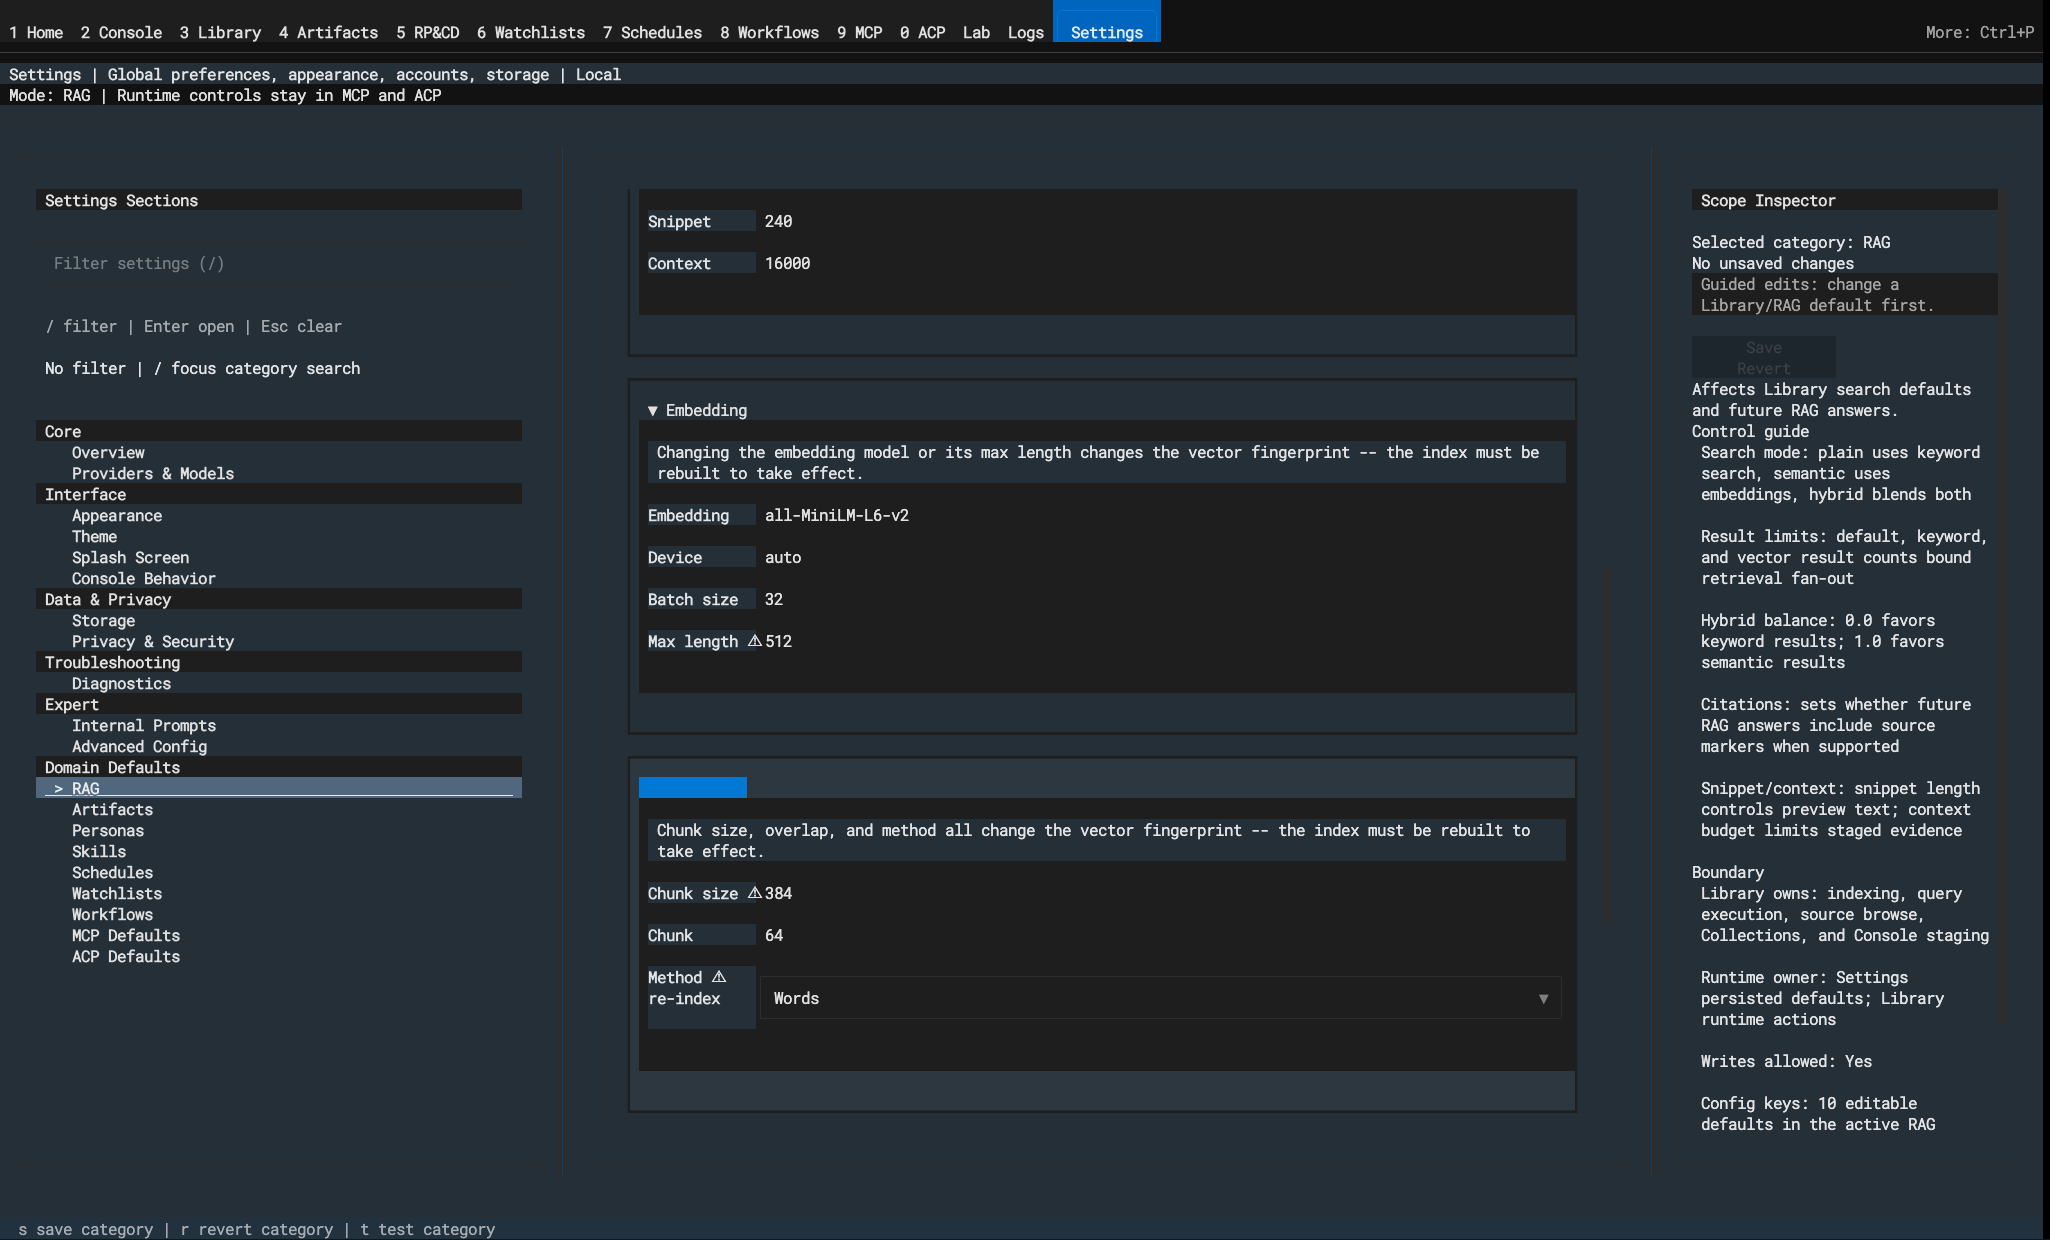
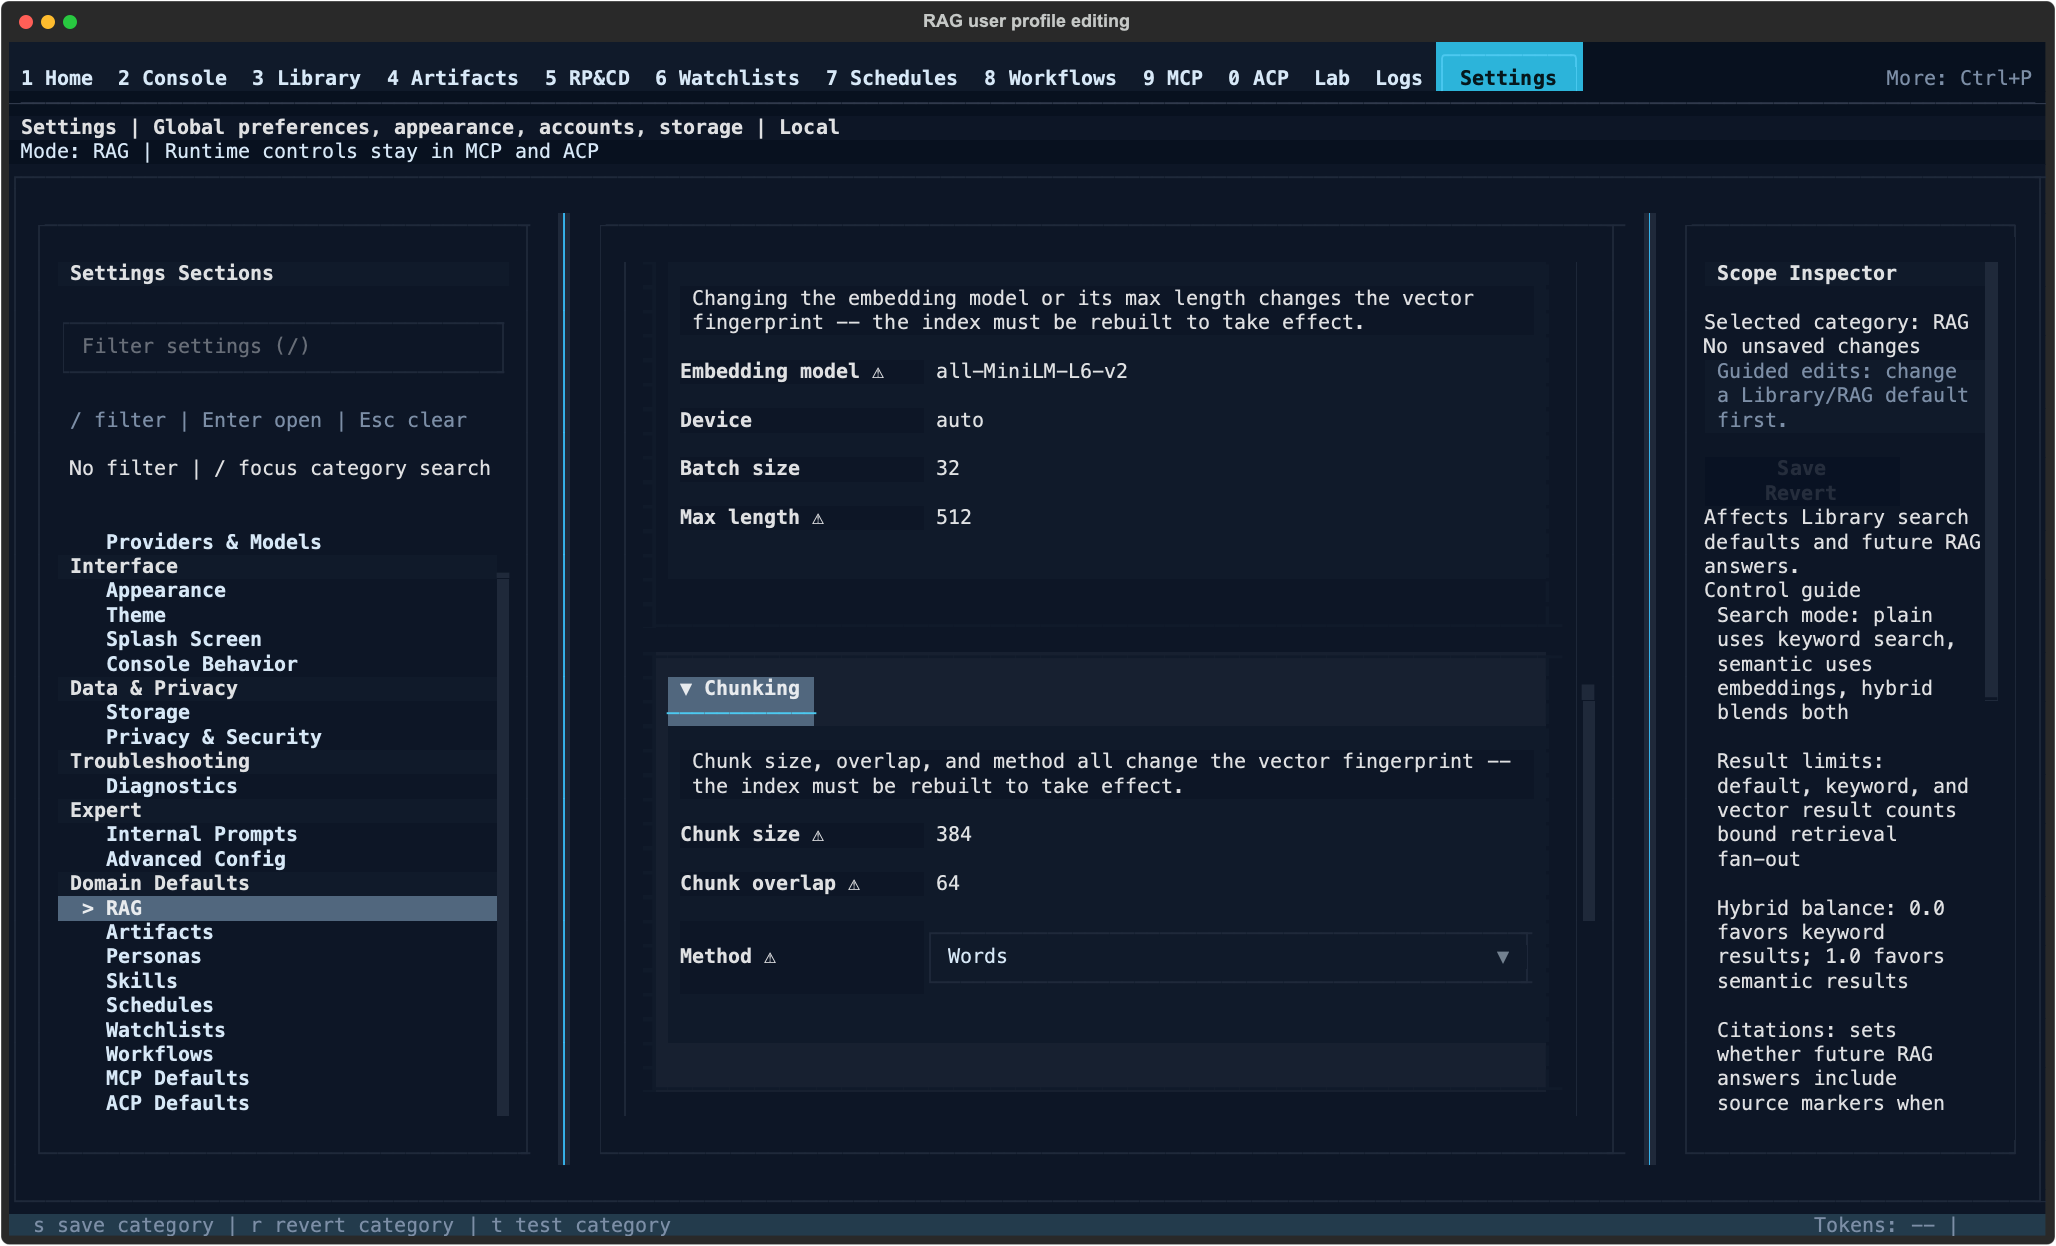
fix(settings): visible focused Collapsible titles + unambiguous RAG field labels; refresh SP3 captures
Root cause: _widgets.tcss styled a dead '.collapsible--header' class (Textual
8.2.7's title is the CollapsibleTitle widget), so focused titles fell through
to an invisible default. RAG card label column widened to 20 (longest labels
in Settings; generic 12 clipped 'Reranker model'/'Reranker top-k' to identical
'Reranker'). Bundle regenerated via build_css.

diff --git a/Docs/superpowers/qa/rag-settings-sp3-2026-07/capture_rag_settings.py b/Docs/superpowers/qa/rag-settings-sp3-2026-07/capture_rag_settings.py
@@ -1,0 +1,233 @@
+"""Capture Settings > Domain Defaults > RAG QA screenshots with the REAL app
+stylesheet + theme (task-5 visual-defect fix pass, SP3).
+
+Mirrors ``Docs/superpowers/qa/personas-workbench/capture_personas_workbench.py``:
+a bare Textual ``App`` whose ``CSS_PATH`` is the real generated bundle
+(``tldw_chatbook/css/tldw_cli_modular.tcss``), the real ``agentic_terminal``
+theme registered/activated, and the real ``SettingsScreen`` pushed onto it --
+so the SVG/PNG exports show production styling, not a bare-harness fallback
+(``DestinationHarness`` in ``Tests/UI/test_destination_shells.py`` does NOT
+load the app stylesheet -- see the ``tldw-chatbook-dev-environment`` memory).
+
+RAG profile data is wired the same way as
+``Tests.UI.test_settings_configuration_hub._wire_rag_profile_adapter``: an
+isolated ``ConfigProfileManager`` over a tmp dir, with the module-level
+``_manager``/``_active_profile_id`` hooks in ``settings_rag_profile_adapter``
+patched directly (no pytest ``monkeypatch`` fixture available outside a
+test run, so this patches by hand -- each capture "session" below gets its
+own explicit wiring call).
+
+Run from the repo root with the cairo dylib on the search path (macOS
+Homebrew build; see ``brew --prefix cairo``):
+
+    DYLD_FALLBACK_LIBRARY_PATH=/opt/homebrew/lib \\
+        .venv/bin/python3 Docs/superpowers/qa/rag-settings-sp3-2026-07/capture_rag_settings.py
+
+Outputs SVGs directly into this directory; convert to PNG with
+``svg_to_png.py`` in the same directory (cairosvg).
+"""
+
+from __future__ import annotations
+
+import asyncio
+import os
+import sys
+import tempfile
+from pathlib import Path
+
+REPO_ROOT = Path(__file__).resolve().parents[4]
+sys.path.insert(0, str(REPO_ROOT))
+os.chdir(REPO_ROOT)
+
+OUT = Path(__file__).resolve().parent
+
+# Empirically calibrated against the original captures (2050x1240): Rich's
+# SVG export viewBox is linear in terminal (cols, rows) --
+# width = 18 + 12.2*cols, height = 50 + 24.4*rows -- so (167, 49) lands
+# within a few px of the original viewport without distorting aspect ratio.
+TERMINAL_SIZE = (167, 49)
+
+
+def _wire_profiles(tmp_path: Path, *, active_id: str | None = None):
+    """Point the Settings RAG adapter at an isolated profile store.
+
+    Returns (manager, profile, state) where `profile` is a writable clone of
+    the `hybrid_basic` builtin ("QA Demo Profile"). Mirrors
+    ``Tests.UI.test_settings_configuration_hub._wire_rag_profile_adapter``
+    without the pytest ``monkeypatch`` fixture (this is a standalone script,
+    not a test run) -- patches module attributes directly.
+    """
+    from tldw_chatbook.RAG_Search.config_profiles import ConfigProfileManager
+    import tldw_chatbook.UI.Screens.settings_rag_profile_adapter as rag_adapter_module
+
+    mgr = ConfigProfileManager(profiles_dir=tmp_path / "profiles")
+    profile = mgr.clone_profile("hybrid_basic", "QA Demo Profile")
+    mgr.save_profile(profile)
+    state = {"active": active_id or profile.id}
+    rag_adapter_module._manager = lambda: mgr
+    rag_adapter_module._active_profile_id = lambda: state["active"]
+    return mgr, profile, state
+
+
+def _build_app_instance():
+    """Real (unmounted) TldwCli instance -- reuses the established test
+    helper so SettingsScreen's ``self.app_instance`` references resolve the
+    same way they do under pytest."""
+    from Tests.UI.test_screen_navigation import _build_test_app
+
+    return _build_test_app()
+
+
+async def _settle(pilot) -> None:
+    await pilot.app.workers.wait_for_complete()
+    await pilot.pause()
+
+
+async def _open_rag_category(pilot) -> None:
+    await _settle(pilot)
+    await pilot.click("#settings-category-library-rag")
+    await pilot.pause()
+    await _settle(pilot)
+
+
+def _make_qa_app_class(theme):
+    from textual.app import App
+    from tldw_chatbook.UI.Screens.settings_screen import SettingsScreen
+
+    class QAApp(App):
+        # The real generated bundle: gives the QA captures production styling.
+        CSS_PATH = str(REPO_ROOT / "tldw_chatbook" / "css" / "tldw_cli_modular.tcss")
+
+        def __init__(self, app_instance):
+            super().__init__()
+            self.app_instance = app_instance
+
+        def on_mount(self) -> None:
+            self.register_theme(theme)
+            self.theme = theme.name
+            self.push_screen(SettingsScreen(self.app_instance))
+
+    return QAApp
+
+
+async def main() -> None:
+    from textual.widgets import Button, Collapsible, Select
+    from textual.widgets._collapsible import CollapsibleTitle
+
+    from tldw_chatbook.css.Themes.themes import agentic_terminal_theme
+
+    tmp_dir = Path(tempfile.mkdtemp(prefix="rag-settings-qa-"))
+    QAApp = _make_qa_app_class(agentic_terminal_theme)
+
+    async def focus_collapsible_title(pilot, screen, collapsible_id: str) -> None:
+        """Expand a Collapsible group and move focus onto its title bar --
+        reproduces the original defect scenario (a focused Collapsible
+        title) so the fix is visible in the capture.
+
+        ``Widget.focus()`` auto-scrolls the real scrollable ancestor (the
+        "Preference Detail" pane -- the card itself is an auto-height
+        Vertical with no scroll of its own) via an ANIMATED
+        ``scroll_visible()``. A single idle-wait ``pilot.pause()`` doesn't
+        reliably outlast a multi-frame scroll animation for a target several
+        rows below the fold (verified: worked for a 1-hop scroll, silently
+        left an earlier target focused/on-screen for a longer one) -- use a
+        wall-clock delay long enough for the animation to finish.
+        """
+        collapsible = screen.query_one(f"#{collapsible_id}", Collapsible)
+        collapsible.collapsed = False
+        collapsible.query_one(CollapsibleTitle).focus()
+        await pilot.pause(0.6)
+
+    # --- Captures 1 + 2: builtin "hybrid_basic" active (read-only). ---
+    # Each capture "session" gets its own profiles_dir -- reusing one
+    # directory across ConfigProfileManager instances let a later
+    # clone_profile("hybrid_basic", "QA Demo Profile") collide with an
+    # earlier session's file of the same name, which was silently
+    # perturbing later widget state (observed: capture 4's "Set active"
+    # focus not landing where the standalone repro said it would).
+    _wire_profiles(tmp_dir / "session1", active_id="hybrid_basic")
+    app1 = QAApp(_build_app_instance())
+    async with app1.run_test(size=TERMINAL_SIZE) as pilot:
+        screen = pilot.app.screen
+        await _open_rag_category(pilot)
+
+        # 1. Overview: Profiles block + Search group open (default state).
+        svg = app1.export_screenshot(title="RAG category overview")
+        (OUT / "01-rag-category-overview.svg").write_text(svg)
+
+        # 2. Builtin read-only: DISTINCT from #1 (the original was a
+        #    byte-duplicate) -- collapse Search to free vertical room, then
+        #    expand only Embedding, so its disabled fields render together
+        #    with the Profiles block + read-only banner, all in the initial
+        #    (unscrolled) viewport.
+        screen.query_one(
+            "#settings-library-rag-search-group", Collapsible
+        ).collapsed = True
+        screen.query_one(
+            "#settings-library-rag-embedding-group", Collapsible
+        ).collapsed = False
+        await pilot.pause(0.3)
+        svg = app1.export_screenshot(title="RAG builtin read-only")
+        (OUT / "02-builtin-readonly.svg").write_text(svg)
+
+    # --- Captures 3 + 5: a writable (non-builtin) profile active. ---
+    _wire_profiles(tmp_dir / "session2", active_id=None)
+    app2 = QAApp(_build_app_instance())
+    async with app2.run_test(size=TERMINAL_SIZE) as pilot:
+        screen = pilot.app.screen
+        await _open_rag_category(pilot)
+
+        # 3. User profile editing: Embedding open (unfocused, for contrast)
+        #    and Chunking open with its title FOCUSED -- reproduces the
+        #    original defect scenario (a focused Collapsible title) so the
+        #    fix is visible in the same shot composition.
+        screen.query_one(
+            "#settings-library-rag-embedding-group", Collapsible
+        ).collapsed = False
+        await pilot.pause()
+        await focus_collapsible_title(
+            pilot, screen, "settings-library-rag-chunking-group"
+        )
+        svg = app2.export_screenshot(title="RAG user profile editing")
+        (OUT / "03-user-profile-editing.svg").write_text(svg)
+
+        # 5. Reranking group: Chunking stays expanded (now unfocused, since
+        #    focus moves to Reranking's title below) + Reranking open with
+        #    its title FOCUSED.
+        await focus_collapsible_title(
+            pilot, screen, "settings-library-rag-reranking-group"
+        )
+        svg = app2.export_screenshot(title="RAG reranking group")
+        (OUT / "05-reranking-group.svg").write_text(svg)
+
+    # --- Capture 4: builtin active, a different (writable) profile
+    #     selected in the dropdown, "Set active" focused. ---
+    _mgr, other_profile, _state = _wire_profiles(
+        tmp_dir / "session3", active_id="hybrid_basic"
+    )
+    app3 = QAApp(_build_app_instance())
+    async with app3.run_test(size=TERMINAL_SIZE) as pilot:
+        screen = pilot.app.screen
+        await _open_rag_category(pilot)
+
+        select = screen.query_one("#settings-library-rag-profile-select", Select)
+        select.value = other_profile.id
+        await pilot.pause()
+        screen.query_one(
+            "#settings-library-rag-profile-set-active", Button
+        ).focus()
+        # Note: the Button's focus style (bold + text-decoration:underline,
+        # confirmed present in the exported SVG's <style> block) doesn't
+        # render through cairosvg -- a converter limitation (cairosvg has no
+        # text-decoration support), not a real rendering defect; the
+        # Collapsible titles' focus cue is a drawn border-bottom instead,
+        # which DOES render, hence it looking fine in captures 03/05.
+        await pilot.pause(0.4)
+        svg = app3.export_screenshot(title="RAG set-active flow")
+        (OUT / "04-set-active-flow.svg").write_text(svg)
+
+    print("captured:", sorted(p.name for p in OUT.glob("*.svg")))
+
+
+if __name__ == "__main__":
+    asyncio.run(main())

diff --git a/tldw_chatbook/UI/Screens/settings_screen.py b/tldw_chatbook/UI/Screens/settings_screen.py
@@ -8036,7 +8036,7 @@ class SettingsScreen(BaseAppScreen):
                 )
                 with Horizontal(classes="settings-input-row"):
                     yield Static(
-                        "Embedding model ⚠ re-index", classes="settings-input-label"
+                        "Embedding model ⚠", classes="settings-input-label"
                     )
                     yield Input(
                         value=str(values["embedding_model"]),
@@ -8066,7 +8066,7 @@ class SettingsScreen(BaseAppScreen):
                     )
                 with Horizontal(classes="settings-input-row"):
                     yield Static(
-                        "Max length ⚠ re-index", classes="settings-input-label"
+                        "Max length ⚠", classes="settings-input-label"
                     )
                     yield Input(
                         value=str(values["embedding_max_length"]),
@@ -8088,7 +8088,7 @@ class SettingsScreen(BaseAppScreen):
                 )
                 with Horizontal(classes="settings-input-row"):
                     yield Static(
-                        "Chunk size ⚠ re-index", classes="settings-input-label"
+                        "Chunk size ⚠", classes="settings-input-label"
                     )
                     yield Input(
                         value=str(values["chunk_size"]),
@@ -8100,7 +8100,7 @@ class SettingsScreen(BaseAppScreen):
                     )
                 with Horizontal(classes="settings-input-row"):
                     yield Static(
-                        "Chunk overlap ⚠ re-index", classes="settings-input-label"
+                        "Chunk overlap ⚠", classes="settings-input-label"
                     )
                     yield Input(
                         value=str(values["chunk_overlap"]),
@@ -8112,7 +8112,7 @@ class SettingsScreen(BaseAppScreen):
                     )
                 with Horizontal(classes="settings-input-row settings-select-row"):
                     yield Static(
-                        "Method ⚠ re-index", classes="settings-input-label"
+                        "Method ⚠", classes="settings-input-label"
                     )
                     yield Select(
                         [
@@ -8139,7 +8139,7 @@ class SettingsScreen(BaseAppScreen):
                 )
                 with Horizontal(classes="settings-input-row settings-select-row"):
                     yield Static(
-                        "Distance metric ⚠ re-index",
+                        "Distance metric ⚠",
                         classes="settings-input-label",
                     )
                     yield Select(

diff --git a/Docs/superpowers/qa/rag-settings-sp3-2026-07/svg_to_png.py b/Docs/superpowers/qa/rag-settings-sp3-2026-07/svg_to_png.py
@@ -1,0 +1,30 @@
+"""Convert this directory's captured SVGs to PNG via cairosvg.
+
+Needs the cairo C library discoverable (macOS Homebrew build doesn't sit on
+the default dyld search path):
+
+    DYLD_FALLBACK_LIBRARY_PATH=/opt/homebrew/lib \\
+        .venv/bin/python3 Docs/superpowers/qa/rag-settings-sp3-2026-07/svg_to_png.py
+"""
+
+from pathlib import Path
+
+import cairosvg
+
+OUT = Path(__file__).resolve().parent
+
+# cairosvg has no network access and this machine has no "Fira Code" font
+# installed (Rich's SVG export hard-codes it), so the ▼/⚠ glyphs used by
+# Collapsible titles and re-index warning labels render as tofu boxes.
+# Route the monospace body font through macOS system fonts that DO carry
+# those glyphs (Apple Symbols/Apple Color Emoji) as fallbacks -- cosmetic
+# fix for THIS conversion step only; the real terminal app renders them
+# fine already (confirmed in the original SP3 captures).
+FONT_FALLBACK = '"Menlo", "Apple Symbols", "Apple Color Emoji", monospace'
+
+for svg_path in sorted(OUT.glob("*.svg")):
+    svg_text = svg_path.read_text()
+    svg_text = svg_text.replace("Fira Code, monospace", FONT_FALLBACK)
+    png_path = svg_path.with_suffix(".png")
+    cairosvg.svg2png(bytestring=svg_text.encode(), write_to=str(png_path))
+    print(f"{svg_path.name} -> {png_path.name}")
